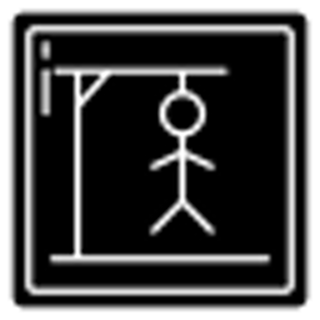
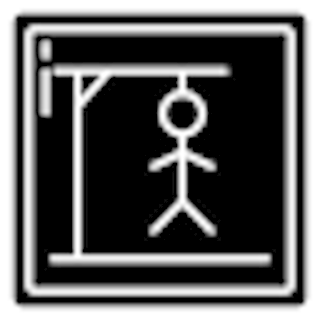
modif hangman README.md

diff --git a/README.md b/README.md
@@ -1,6 +1,8 @@
 # Hangman Game Project
 
-![Hangman Game Demo](pictures/icons8-hangman-game-64_upscayl_5x_realesrgan-x4plus-anime.png)
+<div align="center">
+	<img width = "60%" src="pictures/icons8-hangman-game-64_upscayl_5x_realesrgan-x4plus-anime.png">
+</div>
 
 ## Introduction
 
